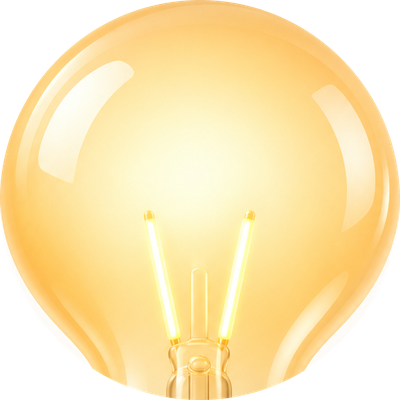
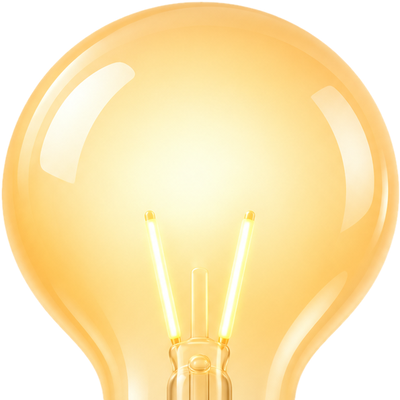
Goals: fix Safari corner clipping bug, show tip art on mobile, real bg-removed bulb
- The square-corner glitch on the Smart Tip carousel was a known WebKit
  bug: overflow:hidden + border-radius fails to clip a transform-
  animated child. Fixed with a -webkit-mask-image trick on
  .tip-carousel instead of the (ineffective) page-level overflow-x fix
  from the previous commit.
- .tip-slide-art was display:none on mobile, so the new coin/leaf
  illustration never showed there. Now shown at a fixed 116px size,
  centered below the chips.
- Reprocessed the light bulb badge icon: the previous version used a
  hard circular crop, which could trap a ring of the original cream
  background inside the circle. Replaced with a flood-fill background
  removal (starting from the image border, so the bulb's own bright
  glass highlight — which is close in color to the background — isn't
  mistaken for background and hollowed out). Result follows the bulb's
  actual silhouette with a clean transparent edge.

Claude-Session: https://claude.ai/code/session_016SyVRyYiEWqAUGTKJNZ3MT

diff --git a/style.css b/style.css
@@ -4430,6 +4430,8 @@ input[type="date"].filter-date {
 .tip-carousel {
   overflow: hidden;
   border-radius: 20px;
+  -webkit-mask-image: -webkit-radial-gradient(white, black);
+  isolation: isolate;
   animation: fadeSlideUp 0.38s var(--ease-out) 0.05s both;
 }
 
@@ -4568,12 +4570,11 @@ input[type="date"].filter-date {
 .tip-dot.active { background: var(--accent); }
 
 @media (max-width: 640px) {
-  .tip-slide { flex-direction: column; align-items: stretch; padding: 1.4rem 1.4rem 1.6rem; }
+  .tip-slide { flex-direction: column; align-items: stretch; padding: 1.4rem 1.1rem 1.6rem; }
   .tip-slide-main { flex: none; }
-  .tip-slide-art { display: none; }
+  .tip-slide-art { display: flex; flex: none; width: 116px; max-width: 116px; margin: 0.4rem auto 0; }
   .tip-headline { font-size: 1.2rem; }
 
-  .tip-slide { padding: 1.4rem 1.1rem 1.6rem; }
   .tip-chips { flex-wrap: nowrap; align-items: stretch; gap: 0.28rem; }
   .tip-chip { flex: 1; min-width: 0; min-height: 72px; box-sizing: border-box; padding: 0.5rem 0.3rem; gap: 0.34rem; }
   .tip-chip-icon { width: 32px; height: 32px; border-radius: 8px; flex-shrink: 0; }
